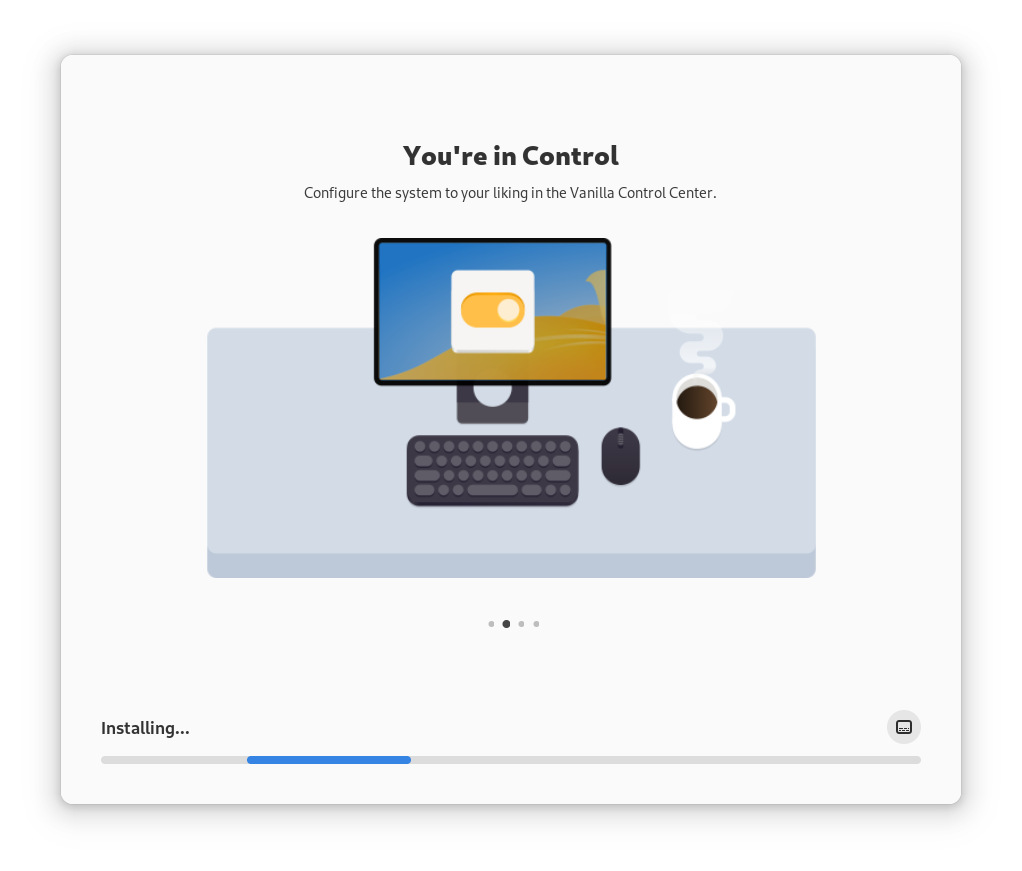
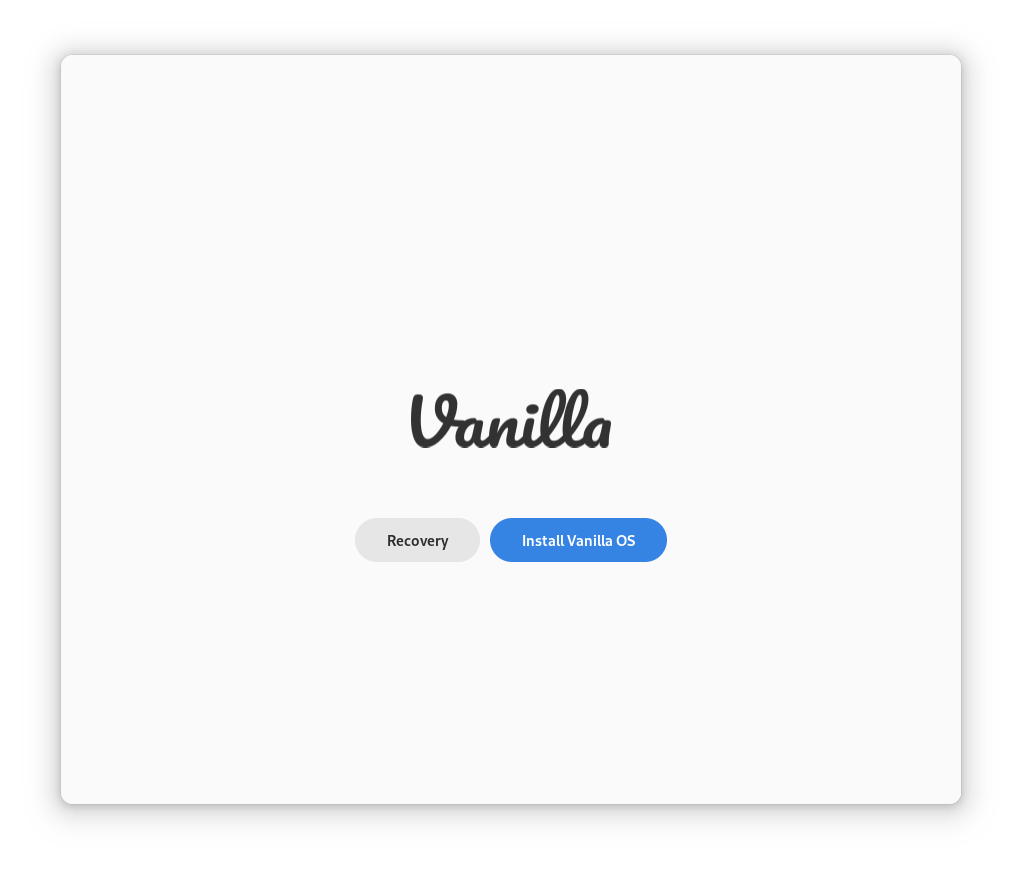
implement recovery utils view

Changed region(s): [[0.182, 0.217, 0.819, 0.682], [0.091, 0.806, 0.91, 0.899], [0.3943, 0.155, 0.6067, 0.186]]

diff --git a/vanilla_installer/windows/dialog_recovery.py b/vanilla_installer/windows/dialog_recovery.py
@@ -1,0 +1,51 @@
+# dialog_recovery.py
+#
+# Copyright 2022 mirkobrombin
+#
+# This program is free software: you can redistribute it and/or modify
+# it under the terms of the GNU General Public License as published by
+# the Free Software Foundationat version 3 of the License.
+#
+# This program is distributed in the hope that it will be useful,
+# but WITHOUT ANY WARRANTY; without even the implied warranty of
+# MERCHANTABILITY or FITNESS FOR A PARTICULAR PURPOSE.  See the
+# GNU General Public License for more details.
+#
+# You should have received a copy of the GNU General Public License
+# along with this program.  If not, see <http://www.gnu.org/licenses/>.
+
+import webbrowser
+from gi.repository import Gtk, GLib, Adw
+from gettext import gettext as _
+
+
+@Gtk.Template(resource_path='/org/vanillaos/Installer/gtk/dialog-recovery.ui')
+class VanillaRecoveryDialog(Adw.Window):
+    __gtype_name__ = 'VanillaRecoveryDialog'
+
+    row_console = Gtk.Template.Child()
+    row_gparted = Gtk.Template.Child()
+    row_handbook = Gtk.Template.Child()
+    row_web = Gtk.Template.Child()
+
+    def __init__(self, window, **kwargs):
+        super().__init__(**kwargs)
+        self.set_transient_for(window)
+
+        # signals
+        self.row_console.connect('activated', self.__on_console_activated)
+        self.row_gparted.connect('activated', self.__on_gparted_activated)
+        self.row_handbook.connect('activated', self.__on_handbook_activated)
+        self.row_web.connect('activated', self.__on_web_activated)
+
+    def __on_console_activated(self, row):
+        GLib.spawn_command_line_async('kgx')
+
+    def __on_gparted_activated(self, row):
+        GLib.spawn_command_line_async('gparted')
+
+    def __on_handbook_activated(self, row):
+        webbrowser.open('https://handbook.vanillaos.org')
+
+    def __on_web_activated(self, row):
+        webbrowser.open('https://vanillaos.org')

diff --git a/vanilla_installer/defaults/welcome.py b/vanilla_installer/defaults/welcome.py
@@ -19,13 +19,14 @@ import time
 from gi.repository import Gtk, Gio, GLib, Adw
 
 from vanilla_installer.utils.run_async import RunAsync
+from vanilla_installer.windows.dialog_recovery import VanillaRecoveryDialog
 
 
 @Gtk.Template(resource_path='/org/vanillaos/Installer/gtk/default-welcome.ui')
 class VanillaDefaultWelcome(Adw.Bin):
     __gtype_name__ = 'VanillaDefaultWelcome'
 
-    btn_live = Gtk.Template.Child()
+    btn_recovery = Gtk.Template.Child()
     btn_install = Gtk.Template.Child()
 
     def __init__(self, window, distro_info, key, step, **kwargs):
@@ -36,12 +37,12 @@ class VanillaDefaultWelcome(Adw.Bin):
         self.__step = step
 
         # signals
-        self.btn_live.connect('clicked', self.__on_live_clicked)
+        self.btn_recovery.connect('clicked', self.__on_recovery_clicked)
         self.btn_install.connect("clicked", self.__window.next)
 
     def get_finals(self):
         return {}
 
-    def __on_live_clicked(self, button):
-        sys.exit(0)
+    def __on_recovery_clicked(self, button):
+        VanillaRecoveryDialog(self.__window).show()
         
